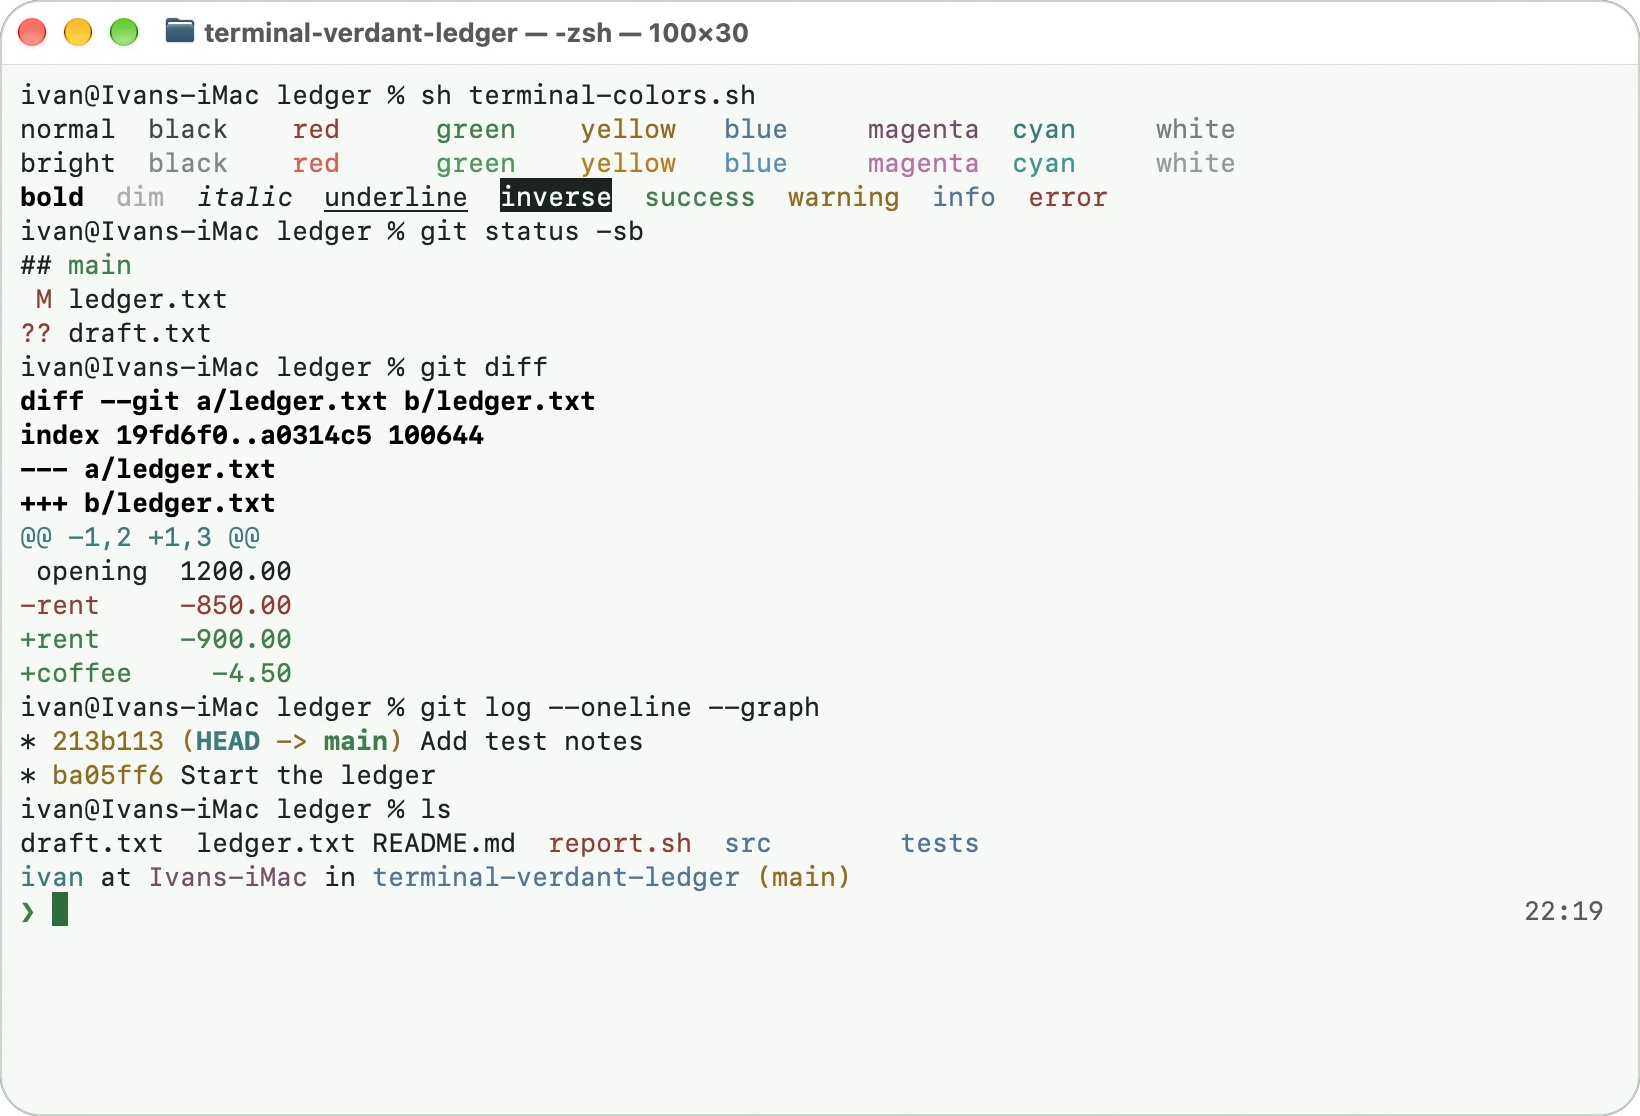
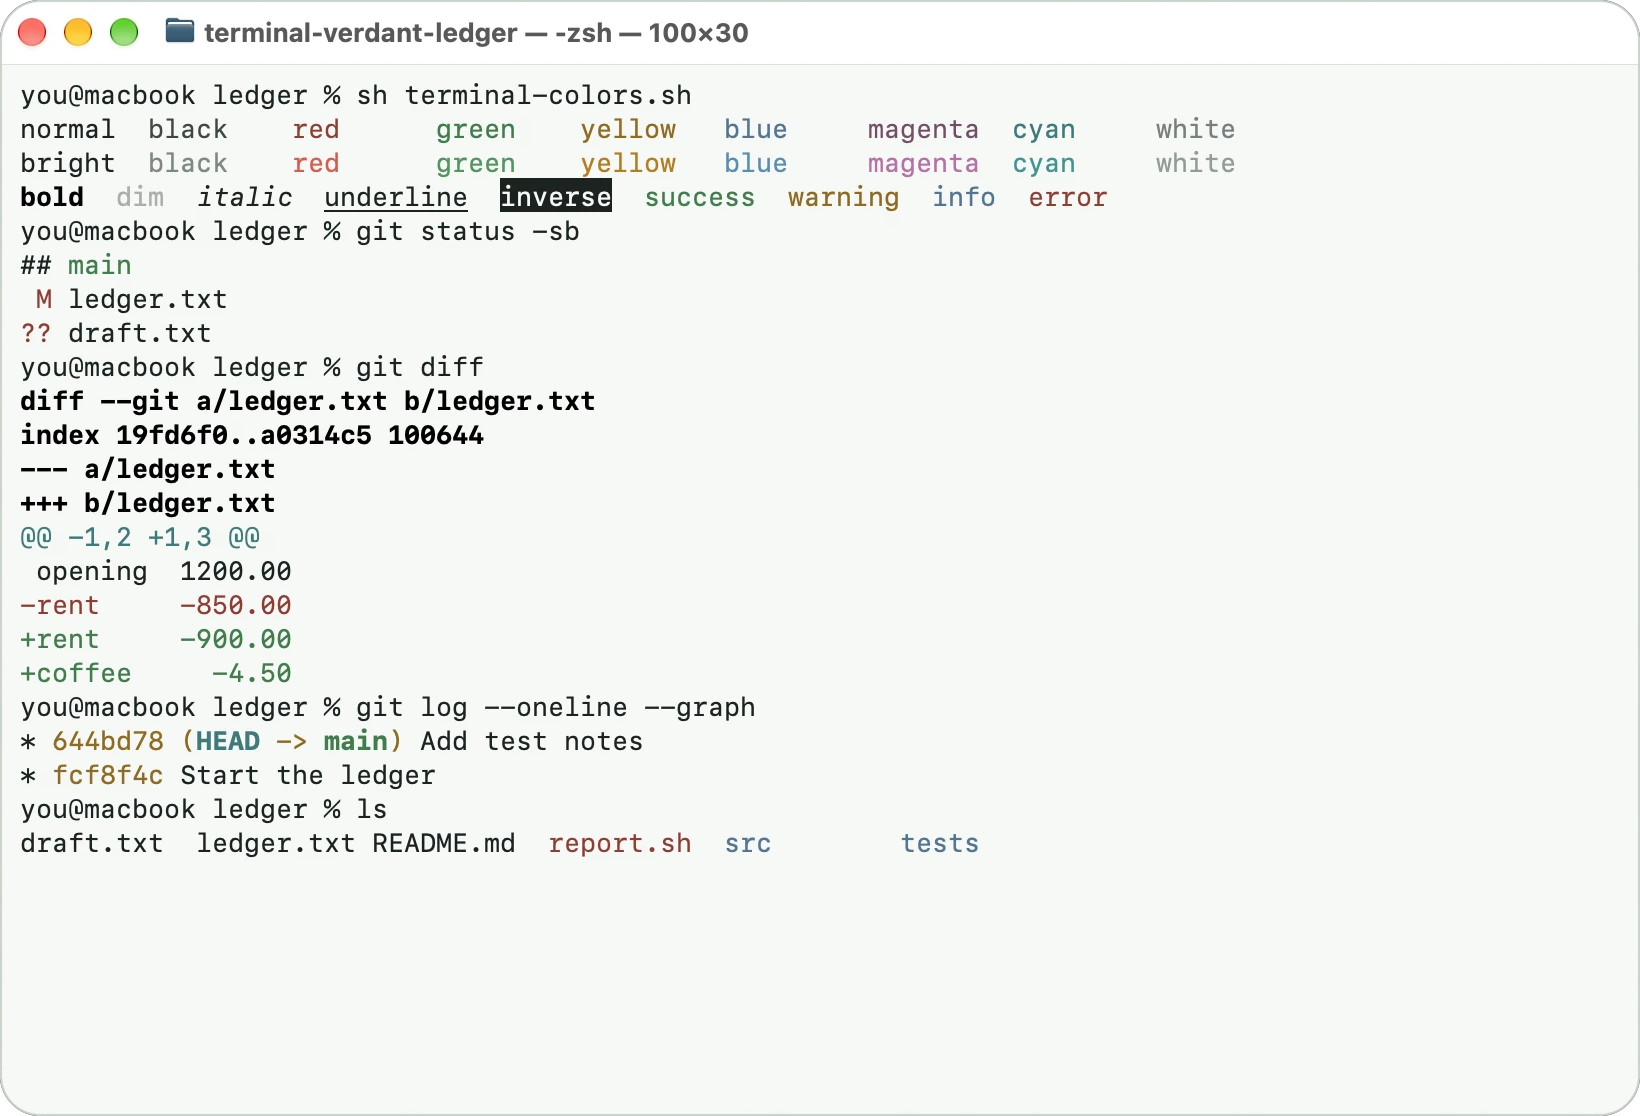
Use the capture with neutral names and no trailing prompt
The screenshot is now taken with DEMO_USER=you DEMO_HOST=macbook. The
shell prompt that zsh drew after the demo ended is cleared to the
background color, so the image shows only the demo, as before.

The cursor block sat on that prompt line, so docs/APPLE-TERMINAL.md now
says the solid areas were measured in the capture rather than in the
screenshot.

Claude-Session: https://claude.ai/code/session_01RFtt1YfSdwWUab5bk21c4Z

diff --git a/docs/APPLE-TERMINAL.md b/docs/APPLE-TERMINAL.md
@@ -145,7 +145,7 @@ The current palette was checked again with `scripts/demo.sh`, which produced the
 
 - Every normal color is visibly darker than its bright variant, including yellow, cyan, and white.
 - Bright white is the lightest gray.
-- Solid areas in the screenshot match the profile: the background, the cursor block, and the `inverse` background measure within one RGB step of `#F6F8F6`, `#2D6A3B`, and `#1B2320`.
+- Solid areas in the capture match the profile: the background, the cursor block, and the `inverse` background measure within one RGB step of `#F6F8F6`, `#2D6A3B`, and `#1B2320`.
 
 The validated configuration used SF Mono Terminal Regular, 13 pt. Menlo Regular, 13 pt, was also found readable, but is not required.
 
